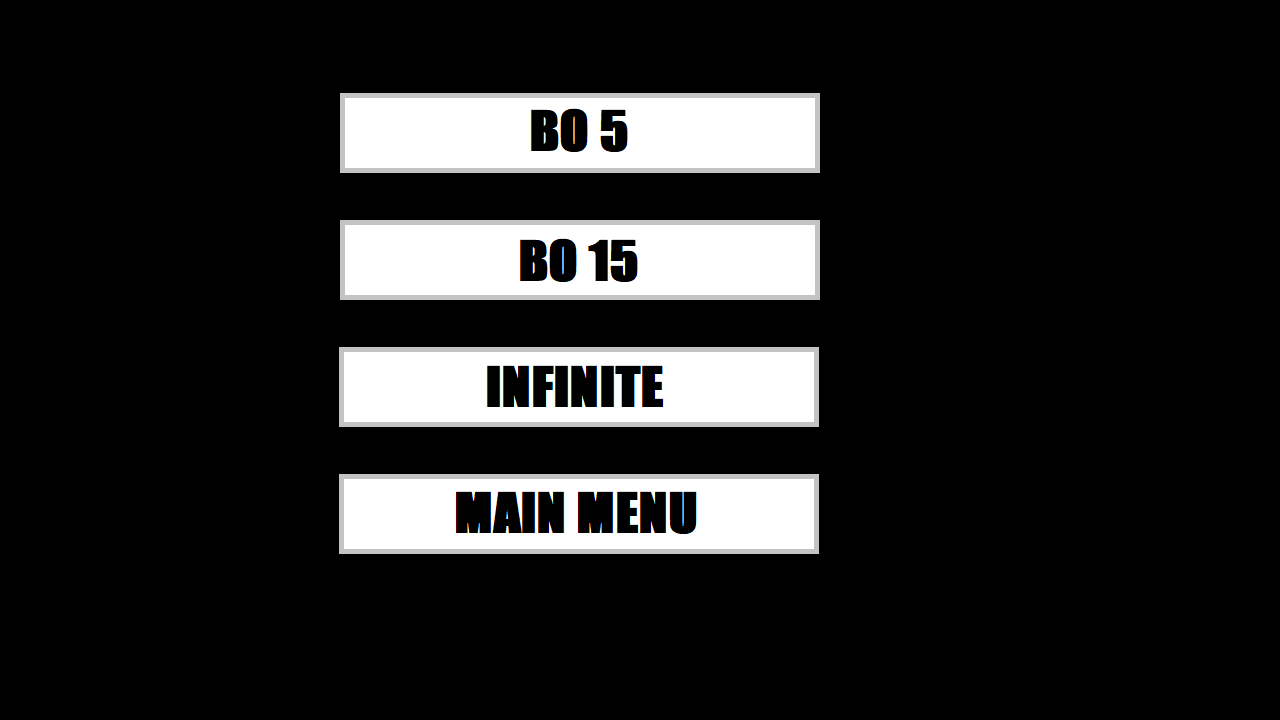
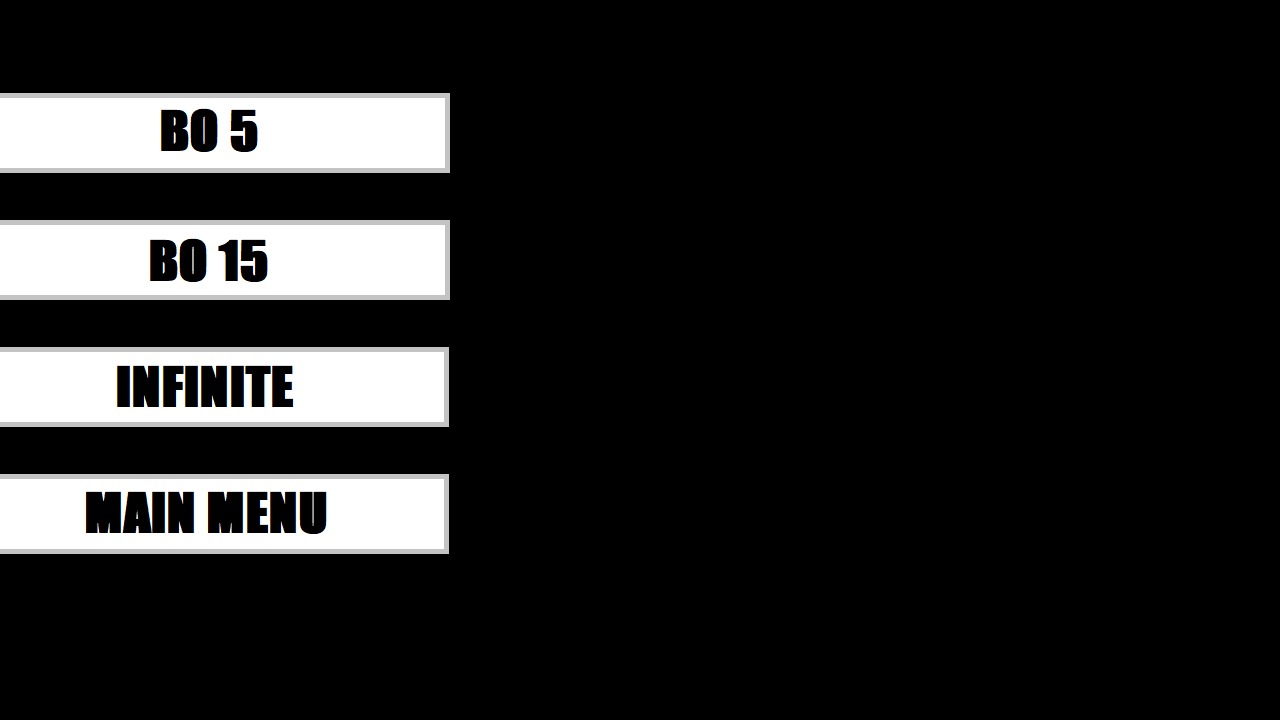
Teine menüü olemas

diff --git a/src/mainfile/main.cpp b/src/mainfile/main.cpp
@@ -19,7 +19,6 @@ int accumulatedTime = 0;
 int leftScore = 0;
 int rightScore = 0;
 
-
 void CheckAndMovePaddles(Paddle& paddle1, Paddle& paddle2, const Uint8* keyboardState){
     //player1
     if (keyboardState[SDL_SCANCODE_W]) {
@@ -92,6 +91,9 @@ int main(int argc, char* args[])
     SDL_Surface * ControlsSurface = IMG_Load("./assets/controls.png");
     SDL_Texture * ControlsTexture = SDL_CreateTextureFromSurface(renderer, ControlsSurface);
 
+    SDL_Surface * PlayMenuSurface = IMG_Load("./assets/2ndmenu.png");
+    SDL_Texture * PlayMenuTexture = SDL_CreateTextureFromSurface(renderer, PlayMenuSurface);
+
 
     TTF_Init();
 
@@ -122,10 +124,10 @@ int main(int argc, char* args[])
     
     SDL_Rect victoryMessage_rect; //create a rect
 
-    victoryMessage_rect.h = 200;
-    victoryMessage_rect.w = 200;
-    victoryMessage_rect.x = 550;
-    victoryMessage_rect.y = 150;
+    victoryMessage_rect.h = 180;
+    victoryMessage_rect.w = 400;
+    victoryMessage_rect.x = 450;
+    victoryMessage_rect.y = 170;
 
 
     //Initialize the audio system
@@ -172,10 +174,10 @@ int main(int argc, char* args[])
     bool BEST_OF_5_FLAG = false;
     bool BEST_OF_15_FLAG = false;
 
-    Button bestOf5(renderer, 0, 165, 372, 75, nupu_r, nupu_g, nupu_b);
-    Button bestOf15(renderer, 0, 265, 372, 75, nupu_r, nupu_g, nupu_b);
-    Button infinite(renderer, 0, 365, 372, 75, nupu_r, nupu_g, nupu_b);
-    Button backToMain(renderer, 0, 465, 372, 75, nupu_r, nupu_g, nupu_b);
+    Button bestOf5(renderer, 0, 93, 450, 75, nupu_r, nupu_g, nupu_b);
+    Button bestOf15(renderer, 0, 220, 450, 75, nupu_r, nupu_g, nupu_b);
+    Button infinite(renderer, 0, 345, 450, 75, nupu_r, nupu_g, nupu_b);
+    Button backToMain(renderer, 0, 475, 450, 75, nupu_r, nupu_g, nupu_b);
 
     bool GAME_END = false; // mäng läbi (ainult best of 5 ja 15 korral)
     bool CHANGE_TEXT = false;
@@ -255,20 +257,24 @@ int main(int argc, char* args[])
                 {
                     SHOW_PLAY_OPTIONS_MENU_FLAG = false;
                     BEST_OF_5_FLAG = true;
+                    Mix_PlayChannel(1, wallsound, 0);
                 }
                 else if (bestOf15.checkIfPressed())
                 {
                     SHOW_PLAY_OPTIONS_MENU_FLAG = false;
                     BEST_OF_15_FLAG = true;
+                    Mix_PlayChannel(1, wallsound, 0);
                 }
                 else if (infinite.checkIfPressed())
                 {
                     SHOW_PLAY_OPTIONS_MENU_FLAG = false;
+                    Mix_PlayChannel(1, wallsound, 0);
                 }
                 else if (backToMain.checkIfPressed())
                 {
                     SHOW_PLAY_OPTIONS_MENU_FLAG = false;
                     SHOW_MENU_FLAG = true;
+                    Mix_PlayChannel(1, wallsound, 0);
                 }
             }
             else if (SHOW_CONTROLS_MENU_FLAG)
@@ -482,6 +488,7 @@ int main(int argc, char* args[])
             bestOf15.render();
             infinite.render();
             backToMain.render();
+            SDL_RenderCopy(renderer, PlayMenuTexture, NULL, NULL);
         }
         else
         {
